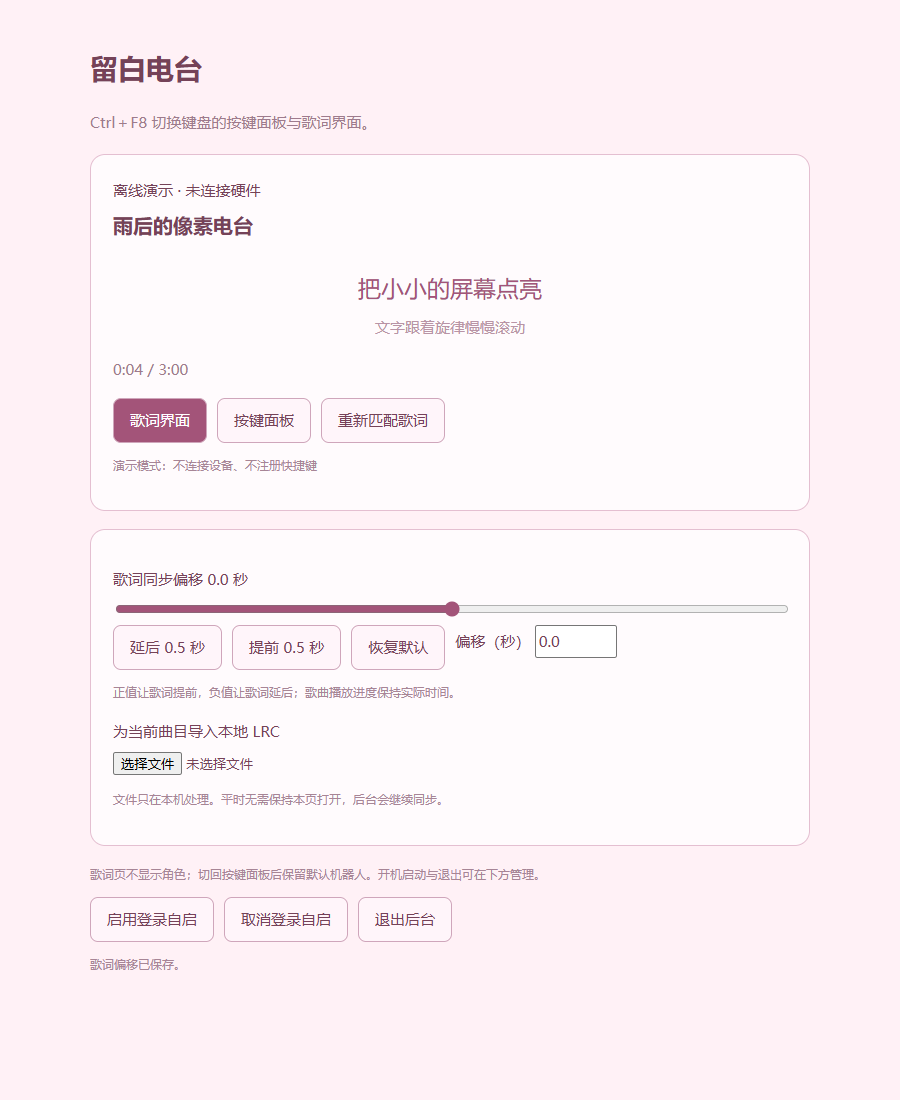
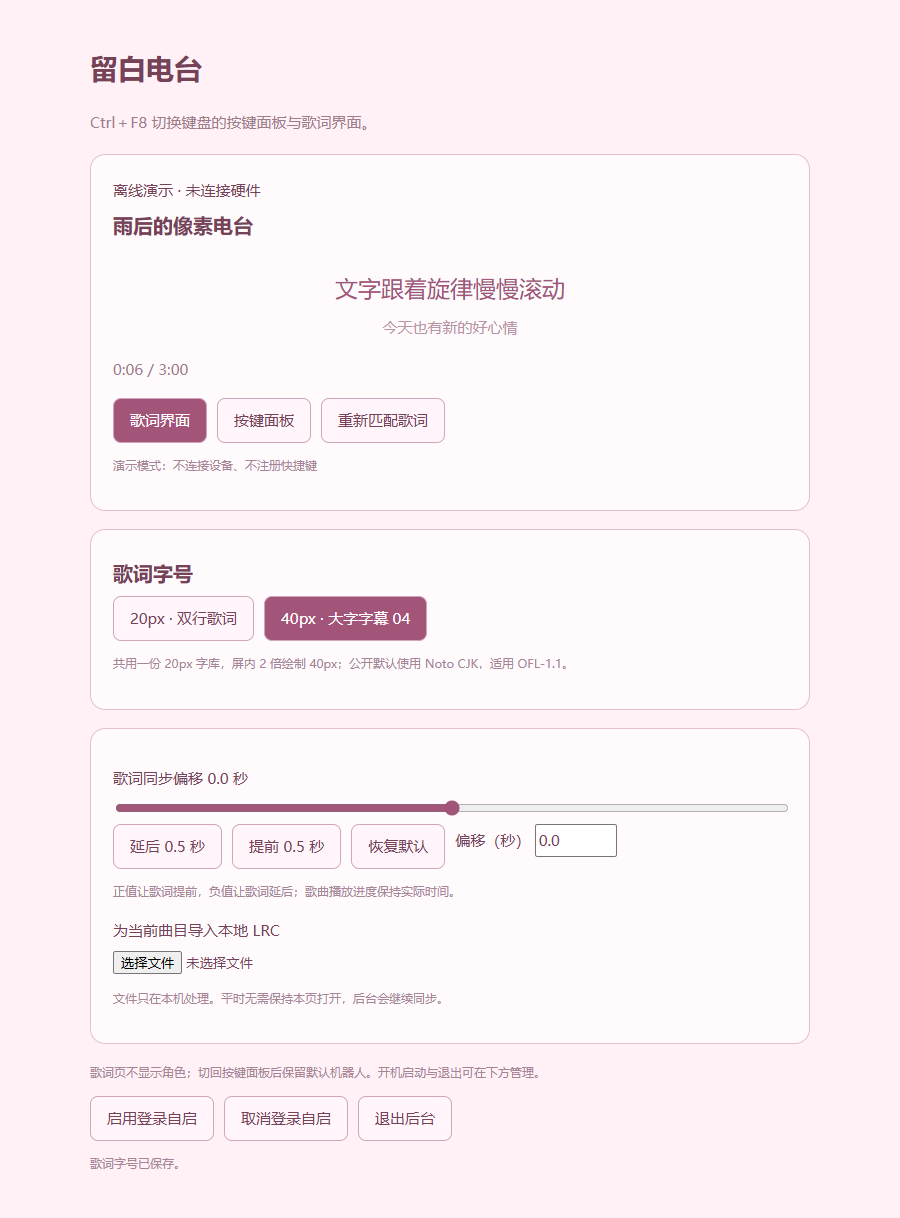
Add 20/40px lyrics layouts and guarded font replacement

diff --git a/desktop/control.html b/desktop/control.html
@@ -1,6 +1,8 @@
 <!doctype html><html lang="zh-CN"><meta charset="utf-8"><meta name="viewport" content="width=device-width,initial-scale=1"><title>留白电台 · 屏幕控制</title><style>body{font:15px/1.8 system-ui,"Microsoft YaHei",sans-serif;background:#fff1f6;color:#754258;max-width:720px;margin:44px auto;padding:0 24px}h1{font-size:28px;font-weight:600;margin-bottom:3px}p{color:#9e7b8d}section{background:#fffbfd;border:1px solid #e4bfd1;border-radius:15px;padding:22px;margin:18px 0}.row{display:flex;gap:10px;flex-wrap:wrap}button{font:inherit;padding:8px 16px;border:1px solid #cfa6bb;border-radius:8px;color:inherit;background:#fff5fa;cursor:pointer}button.active{background:#a35479;color:white}h2{font-size:20px;margin:4px 0}#line{font-size:23px;color:#a35479;text-align:center;padding:20px 0 4px}#next{color:#b994a6;text-align:center}input[type=range]{width:100%;accent-color:#a35479}.small{font-size:12px;color:#a78596}#error{color:#ad516a;white-space:pre-wrap}a{color:inherit}label{display:block;margin:14px 0 5px}</style><h1>留白电台</h1><p>Ctrl＋F8 切换键盘的按键面板与歌词界面。</p><section><div id="status">正在读取后台状态…</div><h2 id="title">播放器</h2><div id="line">等待播放音乐</div><div id="next"></div><p id="progress"></p><div class="row"><button id="player">歌词界面</button><button id="keys">按键面板</button></div><p id="hotkey" class="small"></p><div id="error"></div></section><section><label for="offset">歌词同步偏移 <span id="offsetValue">0 ms</span></label><input id="offset" type="range" min="-3000" max="3000" step="100" value="0"><p class="small">正值让歌词提前，负值让歌词延后；歌曲播放进度保持实际时间。</p><label for="lrc">为当前曲目导入本地 LRC</label><input id="lrc" type="file" accept=".lrc,text/plain"><p class="small">文件只在本机处理。平时无需保持本页打开，后台会继续同步。</p></section><p class="small">歌词页不显示角色；切回按键面板后保留默认机器人。开机启动与退出可在下方管理。</p><div class="row"><button id="startup">启用登录自启</button><button id="noStartup">取消登录自启</button><button id="stop">退出后台</button></div><p id="notice" class="small"></p><script>
 const $=s=>document.querySelector(s);async function post(path,body={}){const r=await fetch(path,{method:'POST',headers:{'Content-Type':'application/json'},body:JSON.stringify(body)});const d=await r.json();if(!r.ok)throw Error(d.error||'操作失败');return d;}
 $('#player').onclick=()=>post('/mode',{mode:1}).catch(e=>$('#notice').textContent=e.message);$('#keys').onclick=()=>post('/mode',{mode:0}).catch(e=>$('#notice').textContent=e.message);
+const layoutSection=document.createElement('section');layoutSection.innerHTML='<h2>歌词字号</h2><div class="row"><button id="layout20">20px · 双行歌词</button><button id="layout40">40px · 大字字幕 04</button></div><p id="fontInfo" class="small">共用一份 20px 字库，屏内 2 倍绘制 40px；公开默认使用 Noto CJK，适用 OFL-1.1。</p>';$('#offset').closest('section').before(layoutSection);
+for(const [id,value]of [['layout20',0],['layout40',1]])$('#'+id).onclick=()=>post('/layout',{layout:value}).then(()=>$('#notice').textContent='歌词字号已保存。').catch(e=>$('#notice').textContent=e.message);
 let offset=0;function showOffset(value){offset=value;$('#offset').value=value;$('#offsetValue').textContent=value===0?'0.0 秒':(value>0?'提前 ':'延后 ')+(Math.abs(value)/1000).toFixed(1)+' 秒';if($('#offsetNumber'))$('#offsetNumber').value=(value/1000).toFixed(1);}
 async function saveOffset(value){value=Math.max(-10000,Math.min(10000,Math.round(value/100)*100));try{await post('/settings',{offsetMs:value});showOffset(value);$('#notice').textContent='歌词偏移已保存。';}catch(e){$('#notice').textContent=e.message;}}
 $('#offset').min=-10000;$('#offset').max=10000;$('#offset').onchange=e=>saveOffset(Number(e.target.value));$('#offset').oninput=e=>showOffset(Number(e.target.value));
@@ -9,5 +11,5 @@ $('#later').onclick=()=>saveOffset(offset-500);$('#earlier').onclick=()=>saveOff
 const source=document.createElement('p');source.id='lyricSource';source.className='small';$('#progress').after(source);const retry=document.createElement('button');retry.textContent='重新匹配歌词';retry.onclick=()=>post('/retry').then(()=>$('#notice').textContent='正在重新匹配当前歌曲。').catch(e=>$('#notice').textContent=e.message);$('#keys').after(retry);
 $('#lrc').onchange=async e=>{const f=e.target.files[0];if(f)try{await post('/lrc',{text:await f.text()});$('#notice').textContent='已为当前曲目载入本地歌词。';}catch(err){$('#notice').textContent=err.message;}};
 $('#startup').onclick=()=>post('/startup',{enabled:true}).then(()=>$('#notice').textContent='已启用 Windows 登录自启。').catch(e=>$('#notice').textContent=e.message);$('#noStartup').onclick=()=>post('/startup',{enabled:false}).then(()=>$('#notice').textContent='已取消登录自启。');$('#stop').onclick=()=>post('/stop').then(()=>$('#notice').textContent='后台已退出。');
-const stamp=ms=>Math.floor(ms/60000)+':'+String(Math.floor(ms/1000)%60).padStart(2,'0');async function poll(){try{const r=await fetch('/state'),s=await r.json();$('#status').textContent=s.demo?'离线演示 · 未连接硬件':s.connected?'屏幕已连接 · '+(s.music.source?.toLowerCase().includes('qqmusic')?'QQ 音乐':s.music.source?'网易云音乐':'等待播放器'):'等待 USB 键盘';$('#title').textContent=s.frame.title;$('#line').textContent=s.frame.current;$('#next').textContent=s.frame.next;$('#progress').textContent=stamp(s.frame.positionMs)+' / '+stamp(s.frame.durationMs);$('#player').classList.toggle('active',s.wantedMode===1);$('#keys').classList.toggle('active',s.wantedMode===0);$('#hotkey').textContent=s.hotkey.ready?'全局快捷键 Ctrl＋F8 已启用':s.hotkey.error||'正在注册快捷键';$('#error').textContent=s.error||s.music.error||'';const m=s.music.match,p=s.music.lyricProvider;$('#lyricSource').textContent=s.music.loading?'正在匹配同版本歌词…':m?'歌词来源：'+(p.startsWith('qq')?'QQ 音乐':'网易云音乐')+(p.endsWith('-match')?' · 跨平台版本匹配':'')+' · '+m.title+' / '+m.artist+(m.durationMs?' · '+stamp(m.durationMs):''):p==='local'?'歌词来源：本地 LRC':'';if(document.activeElement!==$('#offset')&&document.activeElement!==$('#offsetNumber'))showOffset(s.settings.offsetMs);}catch{$('#status').textContent='后台未运行';}setTimeout(poll,1000);}poll();
+const stamp=ms=>Math.floor(ms/60000)+':'+String(Math.floor(ms/1000)%60).padStart(2,'0');async function poll(){try{const r=await fetch('/state'),s=await r.json();$('#status').textContent=s.demo?'离线演示 · 未连接硬件':s.connected?'屏幕已连接 · '+(s.music.source?.toLowerCase().includes('qqmusic')?'QQ 音乐':s.music.source?'网易云音乐':'等待播放器'):'等待 USB 键盘';$('#title').textContent=s.frame.title;$('#line').textContent=s.frame.current;$('#next').textContent=s.frame.next;$('#progress').textContent=stamp(s.frame.positionMs)+' / '+stamp(s.frame.durationMs);$('#player').classList.toggle('active',s.wantedMode===1);$('#keys').classList.toggle('active',s.wantedMode===0);$('#layout20').classList.toggle('active',s.settings.layout===0);$('#layout40').classList.toggle('active',s.settings.layout===1);$('#layout20').disabled=$('#layout40').disabled=!s.demo&&(!s.connected||!s.wire.layoutSupported);$('#hotkey').textContent=s.hotkey.ready?'全局快捷键 Ctrl＋F8 已启用':s.hotkey.error||'正在注册快捷键';$('#error').textContent=s.error||s.music.error||'';const m=s.music.match,p=s.music.lyricProvider;$('#lyricSource').textContent=s.music.loading?'正在匹配同版本歌词…':m?'歌词来源：'+(p.startsWith('qq')?'QQ 音乐':'网易云音乐')+(p.endsWith('-match')?' · 跨平台版本匹配':'')+' · '+m.title+' / '+m.artist+(m.durationMs?' · '+stamp(m.durationMs):''):p==='local'?'歌词来源：本地 LRC':'';if(document.activeElement!==$('#offset')&&document.activeElement!==$('#offsetNumber'))showOffset(s.settings.offsetMs);}catch{$('#status').textContent='后台未运行';}setTimeout(poll,1000);}poll();
 </script></html>

diff --git a/web/index.html b/web/index.html
@@ -4,6 +4,6 @@
 <main><div class="intro"><p class="eyebrow">MAKE THE LITTLE SCREEN YOURS</p><h1>一块小屏幕，<br>自己的像素。</h1><p>编辑键位图标、选择配色，让动画留在键盘里。按键与电量来自键盘原生通知。</p><p class="notice">实验项目。仅针对文档列出的原厂版本；主控 7.1 校时修正尚待实机确认。使用前请阅读<a href="../DISCLAIMER.md">免责声明</a>及<a href="../docs/usage.md">使用方法</a>。</p></div>
 <section id="design"><div class="section-title"><span>01 / DESIGN</span><h2>像素工作台</h2></div><div class="design-grid"><article class="preview"><canvas id="preview" width="320" height="172" aria-label="键盘屏幕布局示意"></canvas><p>布局示意 · 示例时间和电量 · 默认原创机器人</p><div class="row"><label>模板<select id="theme"></select></label><label>预览键位<select id="key"></select></label></div></article><article><h3>逐像素调整图标</h3><canvas id="pixels" width="320" height="220" aria-label="点击网格编辑图标"></canvas><div class="row"><button id="clear">清空图标</button><button id="export">导出图标配置</button><label class="file-button">导入配置<input id="import" type="file" accept=".json"></label></div><p class="muted">图标配置需重新生成资源并编译屏幕固件。模板切换为离线预览；不会自动改动键盘。</p></article></div></section>
 <section id="device"><div class="section-title"><span>02 / DEVICE</span><h2>连接一次，更新所需</h2></div><p>USB 有线连接，关闭其他驱动页面。网页不采集电脑按键，也不会自动在后台运行。</p><div class="row"><button id="connect" class="primary">连接键盘</button><button id="read" disabled>读取状态</button><button id="disconnect" disabled>断开</button></div><output id="device-status">尚未连接。</output><div class="two-col"><article><h3>将时间同步到电脑</h3><label>时区<input id="timezone" type="text" value="Asia/Shanghai"></label><button id="sync" disabled>写入当前时间并核对</button><p class="muted">需要主控 V7.1 与屏幕 L6。校时会更新专用数据区；完成后可关闭网页。完全断电后仍可能需要再次校时。</p></article><article><h3>更换缓存动画</h3><input id="gif" type="file" accept="image/gif,.gif"><label class="check"><input id="replace" type="checkbox">确认替换 S1 槽位素材</label><button id="upload" disabled>上传 GIF 到 S1</button><progress id="upload-progress" max="1" value="0"></progress><p class="muted">320×172 GIF，最大客户端限制 4MiB；实际设备空间可能更小。先在原厂驱动选中 GIF 槽位 1。上传时出现一次 Downloading 属于原厂文件流程。</p></article></div></section>
-<section id="lyrics"><div class="section-title"><span>03 / OPTIONAL LYRICS</span><h2>歌词播放器扩展</h2></div><p>基础屏幕版无需此步骤。歌词版需独立构建、屏内字库和 Windows 后台，详见<a href="../docs/lyrics.md">歌词版安装与控制台</a>。先退出其他后台和驱动页，再连接 USB 键盘。</p><label>同一次构建的 FONT.BIN<input id="font" type="file" accept=".bin"></label><label class="check"><input id="replace-font" type="checkbox">确认写入或替换屏内 FONT.BIN</label><button id="upload-font" disabled>上传字库</button><progress id="font-progress" max="1" value="0"></progress><p class="muted">仅在已安装 LY1 歌词扩展时接受字库写入。正常使用无需逐句上传图片；歌词后台从 npm run lyrics 启动，Ctrl＋F8 切换界面。</p></section>
+<section id="lyrics"><div class="section-title"><span>03 / OPTIONAL LYRICS</span><h2>歌词播放器扩展</h2></div><p>基础屏幕版无需此步骤。歌词版需独立构建、屏内字库和 Windows 后台，详见<a href="../docs/lyrics.md">歌词版安装与控制台</a>。先退出其他后台和驱动页，再连接 USB 键盘。</p><label>同一次构建的新 FONT.BIN<input id="font" type="file" accept=".bin"></label><label class="check"><input id="replace-existing-font" type="checkbox">替换已有字库（首次安装不勾选）</label><label>当前屏内版本的旧 FONT.BIN（仅替换时需要）<input id="previous-font" type="file" accept=".bin" disabled></label><label class="check"><input id="replace-font" type="checkbox">确认写入或替换屏内 FONT.BIN</label><button id="upload-font" disabled>上传字库</button><progress id="font-progress" max="1" value="0"></progress><p class="muted">替换会校验旧文件头和大小，然后只移除 FONT.BIN，再写新字库；不是断电原子替换，请保留旧文件。仅接受匹配 LY1 固件的字库。正常换句不上传图片，Ctrl＋F8 切换界面。</p></section>
 <section id="flash"><div class="section-title"><span>04 / FIRMWARE</span><h2>使用自己的构建产物</h2></div><p>本仓库不分发原厂固件。按<a href="../docs/build.md">构建说明</a>生成 BIN 与 manifest.json，再在这里核对并写入应用区。歌词版会先读取屏幕芯片容量与系列；普通 IPS / 主控无需安装歌词功能。错误版本可能导致键盘或屏幕无法启动。</p><div class="two-col"><article><label>固件 BIN<input id="bin" type="file" accept=".bin"></label><label>构建清单<input id="manifest" type="file" accept=".json"></label><button id="verify">核对目标与 SHA-256</button></article><article><div class="row"><button id="enter" disabled>进入对应升级模式</button><button id="iap" disabled>选择升级设备</button></div><button id="flash-go" class="primary" disabled>擦除应用区并烧录</button><progress id="flash-progress" max="1" value="0"></progress><output id="flash-status">请先选择两份来自同一次构建的文件。</output><p class="muted">选择升级设备需再点一次按钮。工具校验全部字节，包括末尾不足 56 字节部分；不提供设备 Flash 读回备份。</p></article></div></section>
 </main><footer><span>RAINY75 V2 · COMMUNITY PROJECT</span><a href="../LICENSE">MIT License</a><a href="../DISCLAIMER.md">免责声明</a><a href="../THIRD_PARTY_NOTICES.md">第三方与素材说明</a></footer><script type="module" src="app.mjs"></script></body></html>

diff --git a/firmware/ips-lyrics/lyrics.c b/firmware/ips-lyrics/lyrics.c
@@ -1,5 +1,5 @@
 /* SPDX-License-Identifier: MIT
- * Bounded local font reader and monochrome text masks. Font asset is OFL-1.1.
+ * Bounded local font reader and monochrome text masks. Font licenses are separate.
  * File operations run only from the GUI worker, never from UART/LCD callbacks.
  */
 #include "lyrics.h"
@@ -15,12 +15,14 @@ typedef struct {
  Line live[3],build[3],previous;
  u16 incoming[3][MAX_TEXT],incoming_rev,job_rev,committed;
  u8 incoming_count[3],cached[3],fields,queued,job,phase,which,at,ready,opened,error,playing;
- u8 next_playing,mode,wanted,transition;
+ u8 next_playing,mode,wanted,transition,layout;
  u32 position,duration,received,next_position,next_duration,changed,last_draw,last_second,line_motion,last_tick;
  u32 line_span,next_line_span,next_line_motion,title_motion;
 } Lyrics;
 static Lyrics *l;
 static u8 initialize,release,last_error;
+static u8 remove_state,remove_result;
+static u32 remove_crc,remove_bytes;
 static void bytes_zero(u8 *p,unsigned n){while(n--)*p++=0;}
 static void bytes_copy(u8 *d,const u8 *s,unsigned n){while(n--)*d++=*s++;}
 static void *alloc(unsigned n){u32 a=(u32)((void *(*)(unsigned))0x08025c09)(n);if(!a)return 0;if(a<0x20000000u||a>0x2005f000u-n){((void(*)(void*))0x0802ab35)((void*)a);return 0;}return(void*)a;}
@@ -38,7 +40,7 @@ static int open_font(void){
  l->opened=1;
  last_error=FORMAT;if(!read_at(0,h,256)||le32(h)!=0x46353752u||le16(h+4)!=2||le16(h+6)!=256||h[8]!=20||h[9]!=20||le16(h+10)!=50||le16(h+12)!=52||le16(h+14)!=1||le32(h+16)!=FONT_COUNT||le32(h+20)!=256||le32(h+24)!=FONT_DATA_OFFSET||le32(h+32)!=FONT_TOTAL_BYTES||le32(h+36)!=FONT_BODY_CRC||le32(h+40)!=header_crc(h)||REG32((u32)l->file+12)!=FONT_TOTAL_BYTES)goto bad;
  for(i=0;i<3;i++)l->incoming_count[i]=0;
- l->ready=1;last_error=0;return 1;
+ l->layout=1;l->ready=1;last_error=0;return 1;
 bad:
  if(l->opened)((unsigned(*)(void*))0x0803d075)(l->file);
  dealloc(l);l=0;return 0;
@@ -47,14 +49,20 @@ int lyrics_suspend(void){if(!l){initialize=0;return 1;}release=1;return 0;}
 static void close_all(void){unsigned i;if(!l)return;for(i=0;i<3;i++){drop(&l->live[i]);drop(&l->build[i]);}drop(&l->previous);if(l->opened)((unsigned(*)(void*))0x0803d075)(l->file);dealloc(l);l=0;}
 int lyrics_request(const u8 *p,u16 n,unsigned *status,u16 *value){
  unsigned op=p[4],kind,count,i;u16 seq=le16(p+5);*status=FORMAT;*value=seq;
- if(op<20||op>25)return 0;
+ if(op<20||op>27)return 0;
  if(op==24&&n==11){initialize=1;*status=0xa6;*value=0x4c59;return 1;}
  if(op==22&&n==11){
   *status=0xc0+(seq&15u);
-  switch(seq){case 0:*value=l?l->ready:initialize?2:0;break;case 1:*value=l?l->mode:0;break;case 2:*value=l?l->error:last_error;break;case 3:*value=l?l->committed:0;break;case 4:*value=l?(l->job|l->queued<<8):0;break;case 5:*value=FONT_BODY_CRC&65535u;break;case 6:*value=FONT_BODY_CRC>>16;break;case 7:*value=MAX_TEXT;break;default:*status=RANGE;}
+  switch(seq){case 0:*value=l?l->ready:initialize?2:0;break;case 1:*value=l?l->mode:0;break;case 2:*value=l?l->error:last_error;break;case 3:*value=l?l->committed:0;break;case 4:*value=l?(l->job|l->queued<<8):0;break;case 5:*value=FONT_BODY_CRC&65535u;break;case 6:*value=FONT_BODY_CRC>>16;break;case 7:*value=MAX_TEXT;break;case 8:*value=l?l->layout:1;break;case 9:*value=remove_state;break;case 10:*value=remove_result;break;default:*status=RANGE;}
   return 1;
  }
+ if(op==27&&n==23&&le32(p+8)==0x21544e46u){
+  if(l||initialize||remove_state==BUSY){*status=BUSY;return 1;}
+  if(le32(p+16)<256||le32(p+16)>4194304u){*status=RANGE;return 1;}
+  remove_crc=le32(p+12);remove_bytes=le32(p+16);remove_result=0;remove_state=BUSY;*status=QUEUED;return 1;
+ }
  if(!l||!l->ready){initialize=1;*status=BUSY;return 1;}
+ if(op==26&&n==12){if(p[8]>1){*status=RANGE;return 1;}l->layout=p[8];*status=DONE;return 1;}
  if(op==25&&(n==20||n==28)&&p[16]<2){u32 pos=le32(p+8),duration=le32(p+12);if(duration>86400000u||pos>duration){*status=RANGE;return 1;}l->position=pos;l->duration=duration;l->playing=p[16];l->received=((u32(*)(void))0x0803a2bb)();if(n==28){l->line_motion=le32(p+17);l->line_span=le32(p+21);if(l->line_span>600000u)l->line_span=600000u;if(l->line_motion>600000u)l->line_motion=600000u;}*status=DONE;return 1;}
  if((op==20||op==21)&&(l->queued||l->job)){*status=BUSY;return 1;}
  if(op==23&&n==12&&p[8]<2){l->wanted=p[8];*status=DONE;return 1;}
@@ -129,6 +137,23 @@ int lyrics_tick(u32 now){int done;u32 dt;unsigned budget;
  return 0;
 }
 int lyrics_mode(void){return l&&l->mode;}
+void lyrics_cancel_maintenance(void){if(remove_state==BUSY){remove_state=FAULT;remove_result=0xfdu;}}
+void lyrics_maintenance(int suspended){
+ u8 *file,h[256];unsigned read=0,result,opened=0;
+ if(remove_state!=BUSY||!suspended||l||initialize)return;
+ remove_state=FAULT;remove_result=0xfcu;file=alloc(FIL_BYTES);if(!file)return;
+ result=((unsigned(*)(void*,const char*,unsigned))0x0803c805)(file,"FONT.BIN",1);
+ if(!result){
+  opened=1;result=((unsigned(*)(void*,void*,unsigned,unsigned*))0x0803ccc9)(file,h,256,&read);
+  if(!result&&(read!=256||REG32((u32)file+12)!=remove_bytes||le32(h)!=0x46353752u||le16(h+4)!=2||le32(h+32)!=remove_bytes||le32(h+36)!=remove_crc||le32(h+40)!=header_crc(h)))result=0xfe;
+ }
+ if(opened){unsigned closed=((unsigned(*)(void*))0x0803d075)(file);if(!result)result=closed;}
+ dealloc(file);
+ /* Fixed filename only. The native FatFs unlink is evidenced by the stock
+  * upload-finalize path; it runs here only with decoder and font suspended. */
+ if(!result)result=((unsigned(*)(const char*))0x0803dd05)("FONT.BIN");
+ remove_result=(u8)result;if(!result)remove_state=DONE;
+}
 static void pixel(u8 *p,unsigned x,unsigned y,unsigned color){unsigned at=(y*320u+x)*2u;if(x>=320||y>=172)return;p[at]=(u8)color;p[at+1]=(u8)(color>>8);}
 void lyrics_prepare(u8 *pixels,int fresh,u32 now){unsigned at=(39u*320u+22u)*2u,raw;(void)fresh;(void)now;if(!l)return;
  /* The supported cache GIF restores this border pixel on EVERY full frame.
@@ -139,24 +164,36 @@ void lyrics_prepare(u8 *pixels,int fresh,u32 now){unsigned at=(39u*320u+22u)*2u,
  if(l->wanted||raw)l->mode=l->wanted;
 }
 static int mono(const Line *p,unsigned x,unsigned y){unsigned bit=y*p->width+x;return p->bits&&(p->bits[bit>>3]&(128u>>(bit&7)));}
-static void draw_line(u8 *pixels,const Line *p,int y,unsigned field,u32 motion,unsigned color,int clip0,int clip1){
- unsigned x,yy,scroll=0,left=17,bitx,width=p->width,cycle,speed=p==&l->live[0]?30u:15u;
+static void draw_line(u8 *pixels,const Line *p,int y,unsigned field,u32 motion,unsigned color,int clip0,int clip1,unsigned scale){
+ unsigned x,yy,scroll=0,left=scale==2?16u:17u,bitx,width=p->width*scale,cycle,speed=p==&l->live[0]?30u:15u;
  if(!p->bits)return;
  if(width<field)left+=(field-width)/2;else{if(l->line_span&&p!=&l->live[0]){cycle=l->line_span>3000u?l->line_span-3000u:1000u;if(motion>1500u){motion-=1500u;if(motion>cycle)motion=cycle;scroll=motion*(width-field)/cycle;}}else{cycle=(width-field)*1000u/speed+4000u;motion%=cycle;if(motion>1500u)scroll=(motion-1500u)*speed/1000u;if(scroll>width-field)scroll=width-field;}}
- for(yy=0;yy<20;yy++){if(y+(int)yy<clip0||y+(int)yy>=clip1)continue;for(x=0;x<field&&scroll+x<width;x++){bitx=scroll+x;if(mono(p,bitx,yy))pixel(pixels,left+x,(unsigned)(y+(int)yy),color);}}
+ for(yy=0;yy<20u*scale;yy++){if(y+(int)yy<clip0||y+(int)yy>=clip1)continue;for(x=0;x<field&&scroll+x<width;x++){bitx=(scroll+x)/scale;if(mono(p,bitx,yy/scale))pixel(pixels,left+x,(unsigned)(y+(int)yy),color);}}
 }
 static void ascii(u8 *p,const u8 *s,unsigned n,unsigned x,unsigned y){unsigned i,xx,yy;for(i=0;i<n;i++)for(yy=0;yy<7;yy++)for(xx=0;xx<5;xx++)if(cache_font[glyph_index(s[i])][yy]&(16u>>xx))pixel(p,x+i*6+xx,y+yy,INK);}
-static void stamp(u8 *p,u32 ms,unsigned x){u32 s=ms/1000u,m=s/60u;u8 t[5];if(m>99)m=99;t[0]=(u8)('0'+m/10u);t[1]=(u8)('0'+m%10u);t[2]=':';t[3]=(u8)('0'+s/10u%6u);t[4]=(u8)('0'+s%10u);ascii(p,t,5,x,155);}
+static void stamp(u8 *p,u32 ms,unsigned x,unsigned y){u32 s=ms/1000u,m=s/60u;u8 t[5];if(m>99)m=99;t[0]=(u8)('0'+m/10u);t[1]=(u8)('0'+m%10u);t[2]=':';t[3]=(u8)('0'+s/10u%6u);t[4]=(u8)('0'+s%10u);ascii(p,t,5,x,y);}
+static void card(u8 *p){
+ static const u8 outer[7]={4,3,2,1,0,0,0},inner[5]={3,1,1,0,0};unsigned x,y,edge,inset;
+ for(y=0;y<70;y++){edge=y<35?y:69-y;inset=edge<7?outer[edge]:0;for(x=inset;x<298-inset;x++)pixel(p,11+x,75+y,CARD);}
+ for(y=0;y<66;y++){edge=y<33?y:65-y;inset=edge<5?inner[edge]:0;for(x=inset;x<294-inset;x++)pixel(p,13+x,77+y,PAPER);}
+}
 void lyrics_draw(u8 *p,u32 now){unsigned x,y,progress=0,offset=0;u32 pos,elapsed;if(!l||!l->mode)return;
  for(y=37;y<172;y++)for(x=0;x<320;x++)pixel(p,x,y,BG);
- for(x=16;x<304;x++)pixel(p,x,40,TRACK);
- draw_line(p,&l->live[0],51,286,l->title_motion,INK,48,75);
- if(l->transition){elapsed=now-l->changed;if(elapsed>280u)elapsed=280u;offset=elapsed*28u/280u;draw_line(p,&l->previous,86-(int)offset,286,0,INK,86,135);draw_line(p,&l->live[1],114-(int)offset,286,l->line_motion,INK,86,135);draw_line(p,&l->live[2],142-(int)offset,286,l->line_motion,MUTED,86,135);}else{draw_line(p,&l->live[1],86,286,l->line_motion,INK,86,135);draw_line(p,&l->live[2],114,286,l->line_motion,MUTED,86,135);}
+ for(x=16;x<304;x++)pixel(p,x,l->layout?37:40,TRACK);
+ if(l->layout){
+  draw_line(p,&l->live[0],43,286,l->title_motion,INK,43,63,1);card(p);
+  if(l->transition){elapsed=now-l->changed;if(elapsed>280u)elapsed=280u;offset=elapsed*64u/280u;draw_line(p,&l->previous,90-(int)offset,288,0,INK,78,143,2);draw_line(p,&l->live[1],154-(int)offset,288,l->line_motion,INK,78,143,2);}else draw_line(p,&l->live[1],90,288,l->line_motion,INK,78,143,2);
+ }else{
+  draw_line(p,&l->live[0],51,286,l->title_motion,INK,48,75,1);
+  if(l->transition){elapsed=now-l->changed;if(elapsed>280u)elapsed=280u;offset=elapsed*28u/280u;draw_line(p,&l->previous,86-(int)offset,286,0,INK,86,135,1);draw_line(p,&l->live[1],114-(int)offset,286,l->line_motion,INK,86,135,1);draw_line(p,&l->live[2],142-(int)offset,286,l->line_motion,MUTED,86,135,1);}else{draw_line(p,&l->live[1],86,286,l->line_motion,INK,86,135,1);draw_line(p,&l->live[2],114,286,l->line_motion,MUTED,86,135,1);}
+ }
  pos=l->position;if(l->playing)pos+=(u32)(now-l->received);if(pos>l->duration)pos=l->duration;
  if(l->duration){u32 a=pos/100u,b=l->duration/100u;if(b)progress=a*285u/b;}
- for(y=143;y<146;y++)for(x=18;x<303;x++)pixel(p,x,y,x<18+progress?0xcc35u:TRACK);
- for(y=142;y<147;y++)for(x=18+progress;x<21+progress&&x<305;x++)pixel(p,x,y,INK);
- stamp(p,pos,18);stamp(p,l->duration,272);
- for(y=0;y<9;y++)for(x=0;x<5;x++){if(l->playing?(x<2||x>=3):x<=((y<5?y:8-y)/2))pixel(p,155+x,153+y,INK);}
- for(y=0;y<7;y++)for(x=0;x<5;x++){if(!x||x>=4u-(y<4?y:6u-y))pixel(p,133+x,154+y,INK);if(x==4||x<=(y<4?y:6u-y))pixel(p,177+x,154+y,INK);}
+ offset=l->layout?11u:0u;
+ for(y=143+offset;y<146+offset;y++)for(x=18;x<303;x++)pixel(p,x,y,x<18+progress?ACCENT:TRACK);
+ for(y=142+offset;y<147+offset;y++)for(x=18+progress;x<21+progress&&x<305;x++)pixel(p,x,y,INK);
+ stamp(p,pos,18,l->layout?162:155);stamp(p,l->duration,272,l->layout?162:155);
+ offset=l->layout?8u:0u;
+ for(y=0;y<9;y++)for(x=0;x<5;x++){if(l->playing?(x<2||x>=3):x<=((y<5?y:8-y)/2))pixel(p,155+x,153+offset+y,INK);}
+ for(y=0;y<7;y++)for(x=0;x<5;x++){if(!x||x>=4u-(y<4?y:6u-y))pixel(p,133+x,154+offset+y,INK);if(x==4||x<=(y<4?y:6u-y))pixel(p,177+x,154+offset+y,INK);}
 }

diff --git a/tools/test_lyrics_model.py b/tools/test_lyrics_model.py
@@ -17,7 +17,7 @@ def main():
  _,_,_,symbols,_=elf((folder/'module.elf').read_bytes());data=(folder/'FONT.BIN').read_bytes();font=Font20(data)
  u=Uc(UC_ARCH_ARM,UC_MODE_THUMB|UC_MODE_MCLASS);u.mem_map(0x08000000,0x100000);u.mem_write(0x08004000,image);u.mem_map(0x20000000,0x60000);u.mem_map(0x1ffff000,0x1000);u.mem_map(0x40000000,0x40000)
  surface,object_at,stack,stop=0x20010000,0x20006000,0x2005e000,0x08001000
- allocs={};files={};ctx={'now':1000,'reads':0,'fail':False,'uart':[]}
+ allocs={};files={};ctx={'now':1000,'reads':0,'fail':False,'uart':[],'unlinks':0}
  def put(at,v,n=4):u.mem_write(at,int(v).to_bytes(n,'little'))
  def get(at,n=4):return int.from_bytes(u.mem_read(at,n),'little')
  def ret(v=0):u.reg_write(UC_ARM_REG_R0,v);u.reg_write(UC_ARM_REG_PC,u.reg_read(UC_ARM_REG_LR))
@@ -38,9 +38,10 @@ def main():
   elif at==0x0803ccc8:
    assert r0 in files and not get(0x20001c6c);assert r2 in [52,256];chunk=data[files[r0]:files[r0]+r2];u.mem_write(r1,chunk);put(r3,len(chunk));files[r0]+=len(chunk);ctx['reads']+=1;ret()
   elif at==0x0803d074:assert r0 in files;del files[r0];ret()
+  elif at==0x0803dd04:assert bytes(u.mem_read(r0,9))==b'FONT.BIN\0' and not files and not get(0x20001c6c);ctx['unlinks']+=1;ret()
   elif at==0x0805d6f2:put(0x20001c6c,1);ret()
   else:ret() # Original GUI/callback bodies are external to this unit model.
- for at in [0x0803a2ba,0x08025c08,0x0802ab34,0x0803c804,0x0803d098,0x0803ccc8,0x0803d074,0x0805d6f2,0x0807a600,0x0805ac72,0x0805ae0a,0x0805b244,0x0802dca8,0x0805b030]:u.hook_add(UC_HOOK_CODE,code,begin=at,end=at)
+ for at in [0x0803a2ba,0x08025c08,0x0802ab34,0x0803c804,0x0803d098,0x0803ccc8,0x0803d074,0x0803dd04,0x0805d6f2,0x0807a600,0x0805ac72,0x0805ae0a,0x0805b244,0x0802dca8,0x0805b030]:u.hook_add(UC_HOOK_CODE,code,begin=at,end=at)
  def write(cpu,access,address,size,value,_):
   assert not 0x40023c00<=address<0x40023d00,'Unexpected Flash-controller write'
   if address==0x40004c04:ctx['uart'].append(value&255)
@@ -75,9 +76,8 @@ def main():
  u.mem_write(surface,bytes(rgb));call('rainy_hook_native_status',84,0,1);u.mem_write(0x20000100,bytes([0xbe,0x1a,8,13,0x8c,34,56,0xed]));call('rainy_hook_ips',0x20000100,8);draw()
  call('rainy_hook_native_key',46,0,0);draw();plain=bytes(u.mem_read(surface,110080));call('rainy_hook_native_key',46,0,1);draw();shifted=bytes(u.mem_read(surface,110080));assert plain!=shifted
  assert request(24,1)==(0xa6,0x4c59);tick();assert q(0)==1 and q(7)==96
+ assert q(8)==1;assert request(26,9,b'\0')==(1,9);assert q(8)==0
  stage(10,'雨后的像素电台','把小小的屏幕点亮','文字跟着旋律慢慢滚动');assert request(23,11,b'\1')==(1,11);draw();assert q(1)==1
- if a.preview:
-  values=struct.unpack('<55040H',bytes(u.mem_read(surface,110080)));im=Image.new('RGB',(320,172));im.putdata([(((v>>11)&31)*255//31,((v>>5)&63)*255//63,(v&31)*255//31)for v in values]);a.preview.parent.mkdir(parents=True,exist_ok=True);im.resize((960,516),Image.Resampling.NEAREST).save(a.preview)
  reads=ctx['reads'];stage(12,'雨后的像素电台','文字跟着旋律慢慢滚动','新句');assert ctx['reads']-reads==4
  long='标题超过十六个字仍需独立滚动且不被歌词换句打断';stage(13,long,'当前句','下一句');draw();initial=bytes(u.mem_read(surface+51*640,20*640))
  for _ in range(90):tick(33)
@@ -87,10 +87,41 @@ def main():
   ids=[font.lookup.get(ord(c),font.fallback)for c in text];assert request(20,16,bytes([k,len(ids)])+struct.pack('<'+'H'*len(ids),*ids))==(1,16)
  assert request(21,16,struct.pack('<IIB',0,0,0))==(0,16);tick();assert q(3)==14 and q(2)!=0 and allocs==old;ctx['fail']=False
  stage(17,'甲乙丙丁'*24,'繁體簡體'*24,'日本語歌'*24);assert not q(2)
+ stage(30,'雨后的像素电台','把小小的屏幕点亮','文字跟着旋律慢慢滚动');tick(300);draw()
+ if a.preview:
+  values=struct.unpack('<55040H',bytes(u.mem_read(surface,110080)));im=Image.new('RGB',(320,172));im.putdata([(((v>>11)&31)*255//31,((v>>5)&63)*255//63,(v&31)*255//31)for v in values]);a.preview.parent.mkdir(parents=True,exist_ok=True);im.resize((960,516),Image.Resampling.NEAREST).save(a.preview.with_name(a.preview.stem+'-20'+a.preview.suffix))
+ reads=ctx['reads'];old=dict(allocs);assert request(26,31,b'\1')==(1,31);assert q(8)==1 and allocs==old and ctx['reads']==reads
+ stage(32,'晚风与星光','星光','这行不显示');tick(300);draw();caption=bytes(u.mem_read(surface,110080));ink=rgb565(theme['ink']);bg=rgb565(theme['background'])
+ expected=set()
+ for text,scale,y0,field,x0 in [('晚风与星光',1,43,286,17),('星光',2,90,288,16)]:
+  x0+=(field-sum(font.glyph(ch)[0]*scale for ch in text))//2
+  for ch in text:
+   advance,bits=font.glyph(ch)
+   for yy in range(20):
+    for xx in range(advance):
+     bit=yy*20+xx
+     if bits[bit>>3]&(128>>(bit&7)):
+      for dy in range(scale):
+       for dx in range(scale):expected.add((x0+xx*scale+dx,y0+yy*scale+dy))
+   x0+=advance*scale
+ def color(raw,x,y):return int.from_bytes(raw[(y*320+x)*2:(y*320+x)*2+2],'little')
+ for y0,y1 in [(43,63),(78,143)]:
+  for y in range(y0,y1):
+   for x in range(16,304):assert (color(caption,x,y)==ink)==((x,y)in expected)
+ assert color(caption,22,39)==bg
+ assert request(26,33,b'\2')==(5,33) and q(8)==1
+ if a.preview:
+  stage(34,'雨后的像素电台','星光正好','下一句');tick(300);draw();values=struct.unpack('<55040H',bytes(u.mem_read(surface,110080)));im=Image.new('RGB',(320,172));im.putdata([(((v>>11)&31)*255//31,((v>>5)&63)*255//63,(v&31)*255//31)for v in values]);im.resize((960,516),Image.Resampling.NEAREST).save(a.preview)
  put(0x20001c6c,1);before=bytes(u.mem_read(surface,110080));reads=ctx['reads'];ctx['now']+=100;call('rainy_hook_image');assert before==bytes(u.mem_read(surface,110080))and ctx['reads']==reads;finish()
  assert request(23,18,b'\0')==(1,18);u.mem_write(surface,bytes(rgb));draw();assert q(1)==0
  call('rainy_hook_native_key',4,0,0);draw();tick(20000);assert request(11,1)==(0xb1,4)
+ removal=b'FNT!'+struct.pack('<II',struct.unpack_from('<I',data,36)[0],len(data));assert request(27,50,removal)==(2,50) and ctx['unlinks']==0
  assert request(2,19)==(2,19);tick();assert request(2,19)==(1,19);assert not allocs and not files
- report={'passed':True,'physicalHardwareAccessed':False,'sha256':manifest['sha256'],'checks':['read-only silicon queries','native shift symbol and retained key','R75F/2 initialization and independent 96-char title','cached title/next reuse and four-read GUI budget','allocation failure preserves live ownership','maximum three fields','DMA busy leaves pixels and file IO untouched','mode return and upload suspend release all allocations'],'limits':['Original callback bodies/FatFs/allocator/LCD/UART are modeled','Not physical input latency, scanout, recovery or full original startup verification']}
+ bad=bytearray(removal);bad[4]^=1;assert request(27,51,bytes(bad))==(0,51);assert ctx['unlinks']==0;tick();assert q(9)==7 and q(10)==254 and ctx['unlinks']==0 and not allocs and not files
+ assert request(27,53,removal)==(0,53);assert request(5,54)==(1,54);tick();assert q(9)==7 and q(10)==253 and ctx['unlinks']==0
+ assert request(2,55)==(1,55)
+ assert request(27,52,removal)==(0,52);assert q(9)==2 and ctx['unlinks']==0
+ put(0x20001c6c,1);reads=ctx['reads'];call('rainy_hook_image');assert ctx['reads']==reads and ctx['unlinks']==0;finish();tick();assert q(9)==1 and q(10)==0 and ctx['unlinks']==1 and not allocs and not files
+ report={'passed':True,'physicalHardwareAccessed':False,'sha256':manifest['sha256'],'checks':['read-only silicon queries','native shift symbol and retained key','R75F/2 initialization and independent 96-char title','cached title/next reuse and four-read GUI budget','allocation failure preserves live ownership','maximum three fields','DMA busy leaves pixels and file IO untouched','mode return and upload suspend release all allocations','simultaneous bit-exact 20px title and 40px caption','OP26 layout switch allocates and reads no glyphs','OP27 fixed FONT guard, no UART IO, close before unlink, DMA deferral','mismatched old header is preserved; resume cancels queued replacement'],'limits':['Original callback bodies/FatFs/allocator/LCD/UART are modeled','Not physical input latency, scanout, recovery or full original startup verification']}
  (folder/'model-validation.json').write_text(json.dumps(report,indent=2)+'\n',encoding='utf8');print(json.dumps(report))
 if __name__=='__main__':main()

diff --git a/firmware/ips-lyrics/native_ui.c b/firmware/ips-lyrics/native_ui.c
@@ -110,6 +110,7 @@ void rainy_hook_gui(void){if(!ui.active)((void(*)(void))0x0802dca9)();}
 void rainy_hook_misc(void){if(!ui.active)((void(*)(void))0x0805b031)();}
 void rainy_hook_image(void){
  u32 now=clock_ms();if(!ui.suspended)rtc_tick(now);
+ if(!LCD_BUSY)lyrics_maintenance(ui.suspended);
  if(!ui.suspended&&!LCD_BUSY&&lyrics_tick(now))ui.dirty=1;
  if(UI_IDLE_MS&&ui.key&&(u32)(now-ui.key_at)>=UI_IDLE_MS){ui.key=0;ui.key_dirty=1;}
  if(!ui.active){((void(*)(void))0x0805b245)();return;}
@@ -128,9 +129,10 @@ void rainy_hook_ips(const u8 *p,u16 n){
  if(rtc_receive(p,n,clock_ms()))return;
  if(p[3]!=13){if(ui.active&&p[3]!=10&&p[3]!=11){ack(FORMAT,0);return;}((void(*)(const u8*,u16))0x080596ad)(p,n);return;}
  if(!valid(p,n)){ack(FORMAT,0);return;}seq=(u16)(p[5]|(p[6]<<8));op=p[4];
+ if(op==27&&!ui.suspended){ack(BUSY,seq);return;}
  {u16 value;if(lyrics_request(p,n,&status,&value)){ack(status,value);return;}}
  if(op==0&&n==11){ack(0xa5,0x364c);return;}
- if((op==2||op==5)&&n==11){if(LCD_BUSY||(op==2&&!lyrics_suspend())){ack(BUSY,seq);return;}ui.suspended=op==2;ui.active=0;ui.has_surface=0;ack(DONE,seq);return;}
+ if((op==2||op==5)&&n==11){if(LCD_BUSY||(op==2&&!lyrics_suspend())){ack(BUSY,seq);return;}if(op==5)lyrics_cancel_maintenance();ui.suspended=op==2;ui.active=0;ui.has_surface=0;ack(DONE,seq);return;}
  if(op==12&&n==18){ack(rtc_schedule(p+8,seq,clock_ms()),seq);return;}
  if(op==11&&n==11){
   switch(seq){case 0:v=0x5536;break;case 1:v=ui.key;break;case 2:v=ui.known?(ui.battery|(ui.charge<<8)):0xffff;break;case 3:v=ui.known?ui.mode:0xffff;break;case 4:v=rtc_state();break;case 5:v=rtc_value()&65535u;break;case 6:v=rtc_value()>>16;break;case 7:v=ui.active;break;case 8:v=ui.modifiers;break;case 14:v=*(volatile u16*)0x1ffff7e0u;break;case 15:v=*(volatile u8*)0x1ffff7f3u;break;default:ack(RANGE,seq);return;}

diff --git a/tools/build.py b/tools/build.py
@@ -89,7 +89,7 @@ def build(a):
      gif.seek(i);require(gif.tile and gif.tile[0][1]==(0,0,320,172),'Lyrics requires complete cache GIF frames')
      color=gif.convert('RGB').getpixel((22,39));require(rgb565('#%02x%02x%02x'%color)!=rgb565(theme['background']),'Cache frame marker equals player background')
    linker=ROOT/'firmware/ips-lyrics/linker.ld';sources=[ROOT/'firmware/ips-lyrics/native_ui.c',ROOT/'firmware/ips/rtc.c',ROOT/'firmware/ips-lyrics/lyrics.c'];low,high=0x08080000,0x08088000
-   meta.update(variant='lyrics-v1',protocol='L6+LY1',requiredFlashKiB=1024,requiredSeries=13,codeStart=low,imageEnd=high,iapEraseEnd=0x080c0000,preservedSettings=[0x080fc000,0x080fe000,0x080ff800],fontSha256=digest(font),fontBodyCrc=crc,titleMaxGlyphs=96)
+   meta.update(variant='lyrics-v1',protocol='L6+LY1',requiredFlashKiB=1024,requiredSeries=13,codeStart=low,imageEnd=high,iapEraseEnd=0x080c0000,preservedSettings=[0x080fc000,0x080fe000,0x080ff800],fontSha256=digest(font),fontBodyCrc=crc,titleMaxGlyphs=96,renderSizes=[20,40],defaultLayout=1,fontReplacementProtocol='fixed-font-v1')
  else:
   require(a.isp_lib,'--isp-lib is required for main firmware');meta['isp']=isp_blob(Path(a.isp_lib).resolve(),out,clang)
   low=(0x2000+len(original)+15)&~15;high=0x49000;linker=out/'main.ld'

diff --git a/tools/assets.py b/tools/assets.py
@@ -43,7 +43,7 @@ def headers(keys,theme,out):
  rows+=['};','static const u16 connection_icons[3][16]={']+[' {'+','.join(map(str,r))+'},' for r in ICONS]+['};']
  if offset!=1378:raise ValueError('Unexpected mask allocation')
  (out/'ui_assets.h').write_text('\n'.join(rows)+'\n',encoding='utf8')
- (out/'lyrics_theme.h').write_text('/* SPDX-License-Identifier: MIT */\n'+''.join(f'#define {k} {rgb565(v)}u\n' for k,v in [('INK',theme['ink']),('BG',theme['background']),('MUTED',theme.get('muted',theme['accent'])),('TRACK',theme['shell'])]),encoding='utf8')
+ (out/'lyrics_theme.h').write_text('/* SPDX-License-Identifier: MIT */\n'+''.join(f'#define {k} {rgb565(v)}u\n' for k,v in [('INK',theme['ink']),('BG',theme['background']),('MUTED',theme.get('muted',theme['accent'])),('TRACK',theme['shell']),('CARD',theme.get('lyricsBorder',theme['shell'])),('PAPER',theme.get('lyricsPanel',theme['panel'])),('ACCENT',theme['accent'])]),encoding='utf8')
 def base_frame(theme,phase=0):
  im=Image.new('RGB',(320,172),theme['background']);d=ImageDraw.Draw(im)
  d.rounded_rectangle((7,37,312,165),radius=16,fill=theme['shell'])

diff --git a/firmware/ips-lyrics/lyrics.h b/firmware/ips-lyrics/lyrics.h
@@ -8,4 +8,6 @@ int lyrics_mode(void);
 void lyrics_prepare(u8 *pixels,int fresh,u32 now);
 void lyrics_draw(u8 *pixels,u32 now);
 int lyrics_suspend(void);
+void lyrics_maintenance(int suspended);
+void lyrics_cancel_maintenance(void);
 #endif

diff --git a/docs/lyrics.md b/docs/lyrics.md
@@ -46,6 +46,8 @@ python tools/fontpack.py --source inputs/NotoSansCJKsc-Regular.otf
 
 字库及其衍生部分适用 [SIL OFL-1.1](../licenses/OFL-1.1.txt)，不能因为项目代码是 MIT 就把字库重新标成 MIT。自定义字库应同步修改生成器、固件配置与主机索引，并保留相应许可。
 
+20px 和 40px 共用这一份 R75F/2 字库；40px 由屏幕按 2×2 像素绘制，不另存一套原生 40px 字模。更换成其他字体时需自行核对覆盖、字模与再分发许可，本仓库只提供 Noto/OFL 默认方案。
+
 ## 3. 构建并安装歌词固件
 
 ```sh
@@ -69,6 +71,20 @@ python tools/build.py ips --stock inputs/ips-stock.bin --lyrics --font build/fon
 字库固定文件名 `FONT.BIN`，不覆盖 S1 GIF。空间不足时先用原厂工具管理多余素材；文件列表大小之和不代表文件系统实际可用空间。不要在字库上传期间运行同步后台。
 
 固件、电脑和屏内字库的 CRC 必须一致。不一致会停止同步，重新选择同一次构建的文件，不能删除校验来绕过。
+
+### 更换已有字库
+
+原厂 BEGIN 先检查新文件所需空闲空间，通用文件的旧版本不一定计入可释放空间。因此即使最终只需约 2.4MiB，直接再上传也可能提示空间不足；不要为此启用自动删除其他素材的流程。
+
+1. 保留当前版本的旧 `FONT.BIN`、旧固件与恢复清单。退出歌词后台。
+2. 为新字库构建并安装**本版歌词固件**。此时新固件暂时不能打开旧字库，属于两步更新的中间状态。
+3. 在工作台选择新字库，勾选「替换已有字库」，再选择当前屏内版本对应的旧字库，确认执行。
+4. 工具先验证两份本地文件及新固件期望 CRC；屏幕暂停绘制与文件读取，GUI worker 核对旧文件头、其中记录的 body CRC、头部 CRC 和文件大小，关闭句柄后**仅移除 `FONT.BIN`**，随后上传新文件。
+5. 上传成功后用新构建的字库启动后台，检查初始化、字号切换和实际显示。原 GIF 不需要因字号切换重传。
+
+旧文件不匹配或缺少替换接口时停止，不使用 S1–S4 槽位删除来清理字库。该接口不提供任意路径删除，也不格式化素材存储。
+
+替换不是断电原子操作：旧文件释放后、上传完成前中断，会暂时没有可用字库。保持 USB 连接，修复中断后用同一新固件与新字库按「首次安装」重传；若回退固件，也要恢复对应旧字库。设备只核对旧头部元数据，工具没有把屏内整文件读回计算 SHA 的能力。API 细节见 [协议](protocol.md#可选-ly1-歌词扩展)。
 
 ## 5. 启动 Windows 后台
 
@@ -94,6 +110,7 @@ npm run lyrics:demo
 ## 6. 控制台与日常使用
 
 - **Ctrl＋F8**：全局切换按键页 / 歌词页；只注册这个快捷键，不监听或记录全局按键。被其他程序占用时在控制台显示错误，可用界面按钮切换。
+- **歌词字号**：默认「40px · 大字字幕 04」，同时显示 20px 歌名；「20px · 双行歌词」显示当前句和下一句。切换只发送布局值，设置保存到本机。旧固件不支持此接口时禁用按钮，不影响原有歌词同步。
 - **歌词偏移**：±10 秒、0.1 秒步长，含 ±0.5 秒和恢复默认。正值提前、负值延后；只影响歌词，不改歌曲实际进度，设置自动保存在本机。
 - **重新匹配歌词**：重新查询当前曲目。同平台优先，匹配标题、歌手、版本、专辑与时长；首个重复候选没歌词时继续尝试，跨平台回退要求版本及时长可信。
 - **本地 LRC**：为当前曲目导入自己的时间戳歌词，保存在当前后台进程的缓存中，退出后需要重新导入。

diff --git a/docs/validation.md b/docs/validation.md
@@ -30,7 +30,7 @@ c9e26045df8dcabb37de6b06ed6c94fbf036edce32b371554878b4532beed1e9
 
 基础版仍单独构建和使用；歌词扩展增加下列自动检查：
 
-- `npm test`：当前29项，覆盖原协议回归、歌词版本/时长筛选、重复候选、重试、异步切歌保护、缓存键、NFC字形编码、USB描述符与报告适配、重连模式、字库双CRC、扩展镜像全字节/尾部校验、芯片预检拒绝、离线控制台保存偏移与中文分块请求。所有设备与网络请求均用模拟对象，不访问真实HID或播放器。
+- `npm test`：当前31项，覆盖原协议回归、歌词版本/时长筛选、重复候选、重试、异步切歌保护、缓存键、NFC字形编码、USB描述符与报告适配、重连模式、字库双CRC、扩展镜像全字节/尾部校验、芯片预检拒绝、离线控制台保存偏移与中文分块请求；新增20/40切换及旧固件兼容、字库定点替换的前置校验、排队、失败、超时与恢复。所有设备与网络请求均用模拟对象，不访问真实HID或播放器。
 - Python资源/字库测试：当前5项，覆盖三套原创GIF的完整帧与标记像素、图标边界/居中、字库格式、索引、CRC与fallback。
 - `tests/lyrics-console.smoke.mjs`：真实无头浏览器访问离线演示后台，测试按钮/数值偏移、归零、两页切换和桌面/移动布局；不注册快捷键或读取媒体。
 
@@ -55,8 +55,12 @@ python tools/test_lyrics_model.py
 
 此模型不是完整原厂启动、硬件供电、物理输入延迟、真实LCD扫描或恢复能力的证明。公开代码已在本地用匹配原厂输入重新构建并通过模型；源码化后的默认机器人配置仍需使用者实际查看屏幕。
 
+0.2.0-alpha.2新增逐像素验证：同一字库同时绘制20px标题和40px当前句，切换布局不读字形、不增加分配；固定FONT替换在未暂停时拒绝，在UART只排队、DMA忙时不执行；旧头部不匹配时保留文件，句柄关闭后只unlink固定文件，恢复时取消未执行的队列。`--preview assets/player-pink.png`同时导出大字图及`player-pink-20.png`小字图，均为模型输出。
+
 ## 开发设备观察与公开版的区别
 
 同源歌词逻辑在一台1024KiB AT32F435/4MiB外置Flash设备上有安装、全字节烧录核对和QQ同步记录。一次30秒观察中7次提交约152–432ms，中位245ms；这是电脑发送到设备提交应答的耗时，**不是按键输入延迟，也不是可保证的音画误差**。不同曲目、字长、GUI负载与环境会改变结果。
 
 网易云新Elog适配尚未做当前客户端的实机复核。纯音乐、Live/Remix/不同剪辑、接口限流和歌词本身的时间戳问题仍可能导致缺词或错位。不要把QQ个别曲目成功写成所有来源、版本和连接方式都已验证。
+
+同源20/40布局和FONT专用替换在这台开发设备上已完成安装、整镜像烧录校验、旧字体释放、新字体提交与ready/布局读回，QQ后台恢复同步。素材清单中的其他条目大小保持一致；这不等于读回其全部内容。公开默认字体/主题以及新增排队取消分支仍以公开构建和模型检查为证据，不能标成全批次实机验证。

diff --git a/README.md b/README.md
@@ -2,7 +2,7 @@
 
 给 Rainy75 V2 小屏幕加上可定制像素界面。项目分为两部分：原有的**基础屏幕版**，以及新加入的**歌词播放器扩展**；按需要选择，不必为了改图标安装全部功能。也记录把 AI 用于外设开发的一些方法。
 
-**实验性源码项目 · `0.2.0-alpha.1` · 自有代码 MIT License**
+**实验性源码项目 · `0.2.0-alpha.2` · 自有代码 MIT License**
 
 | 入口 | 基础屏幕版 · 原功能 | 歌词播放器扩展 · 新功能 |
 | --- | --- | --- |
@@ -32,12 +32,19 @@
 
 上图为公开源码与原创示例文字的软件渲染，**不是实机照片**。歌词页不显示角色，切回按键页保留原创机器人；字形来自 Noto CJK，见 [字体许可](licenses/OFL-1.1.txt)。
 
-- 自动选择 QQ 音乐 / 网易云当前媒体会话，显示曲名、当前句、下一句和播放进度。
+默认是 **04 大字字幕**：20px 歌名与 40px 当前句同时显示。控制台可切回 20px 双行，两个字号共用一份屏内字库，40px 为整数两倍绘制，保留像素感；切换字号无需重刷或重传字库。
+
+![20px 双行歌词软件预览](assets/player-pink-20.png)
+
+上图为可选的 20px 布局，同样是模型执行公开固件所得的软件预览。
+
+- 自动选择 QQ 音乐 / 网易云当前媒体会话，显示曲名、歌词和播放进度；20px 模式含下一句，40px 模式聚焦当前句。
 - 中文、繁中、日文、英文混排；长歌名独立滚动，长歌词分段与横向滚动，换句有上下过渡。
 - 屏内字库和动画一次性缓存；换句发送字形编号，屏幕复用已准备的歌名和下一句。
 - Ctrl＋F8 全局切换两页；只注册该快捷键，不采集全局按键或按键历史。
 - 本机控制台调整歌词偏移：±10 秒、0.1 秒精度、±0.5 秒按钮、一键归零、自动保存；支持本地 LRC、重新匹配与登录自启。
 - 按歌手、版本及时长筛选歌词；优先同平台，多个候选和退避重试减少缺词、误配。
+- 更换字库时可提供旧 `FONT.BIN`，通过固定文件替换接口核对旧头部和大小，再释放旧文件空间；流程与恢复说明见 [字库替换](docs/lyrics.md#更换已有字库)。
 
 QQ 歌词与设备提交有单台开发设备使用记录；网易云新进度适配仍待实机复核，歌词接口也可能变化。详细安装、数据流与限制见 [歌词文档](docs/lyrics.md)。
 
